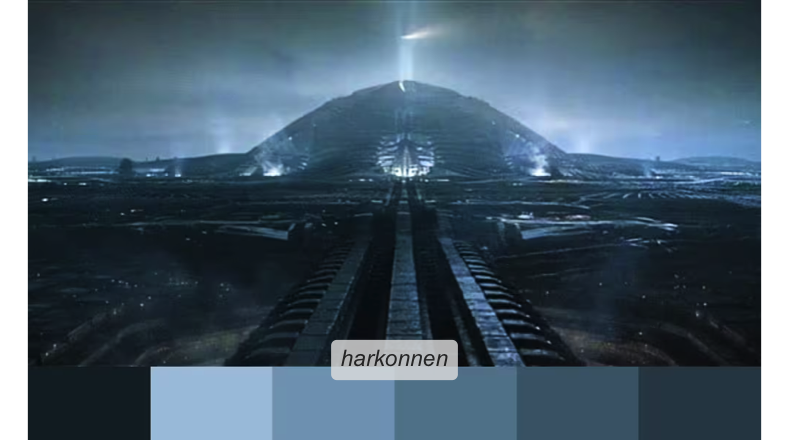
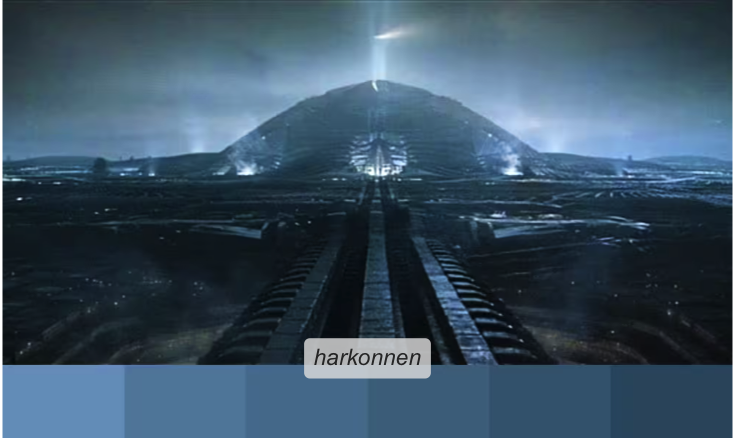
added/edited palettes to give light to dark scale and edit readme

diff --git a/README.md b/README.md
@@ -112,6 +112,9 @@ ggplot(data.frame(x = rnorm(1000), y = rnorm(1000)),
 <p align="center">
 <img src="man/figures/Atreides3.png" height="300" alt="Description of image">
 </p>
+<p align="center">
+<img src="man/figures/Atreides4.png" height="300" alt="Description of image">
+</p>
 
 ### Bene Gesserit
 
